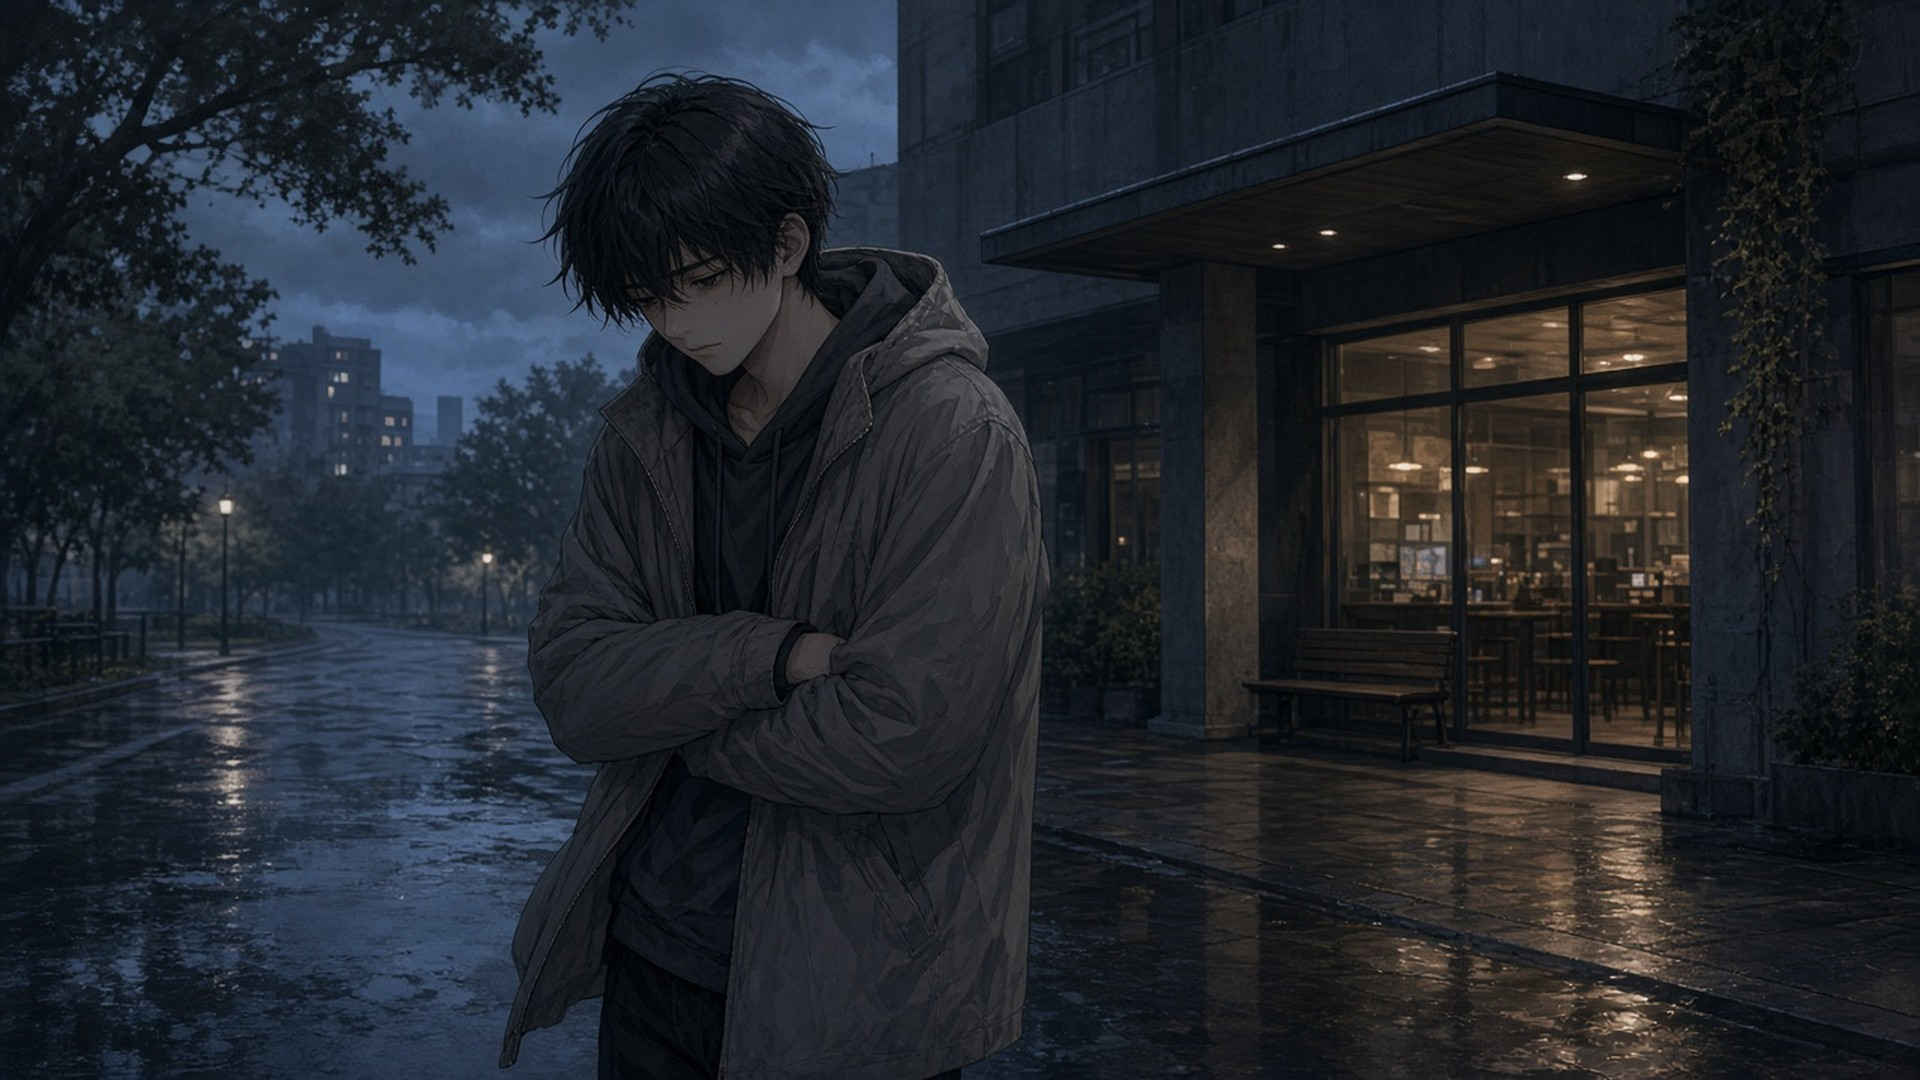
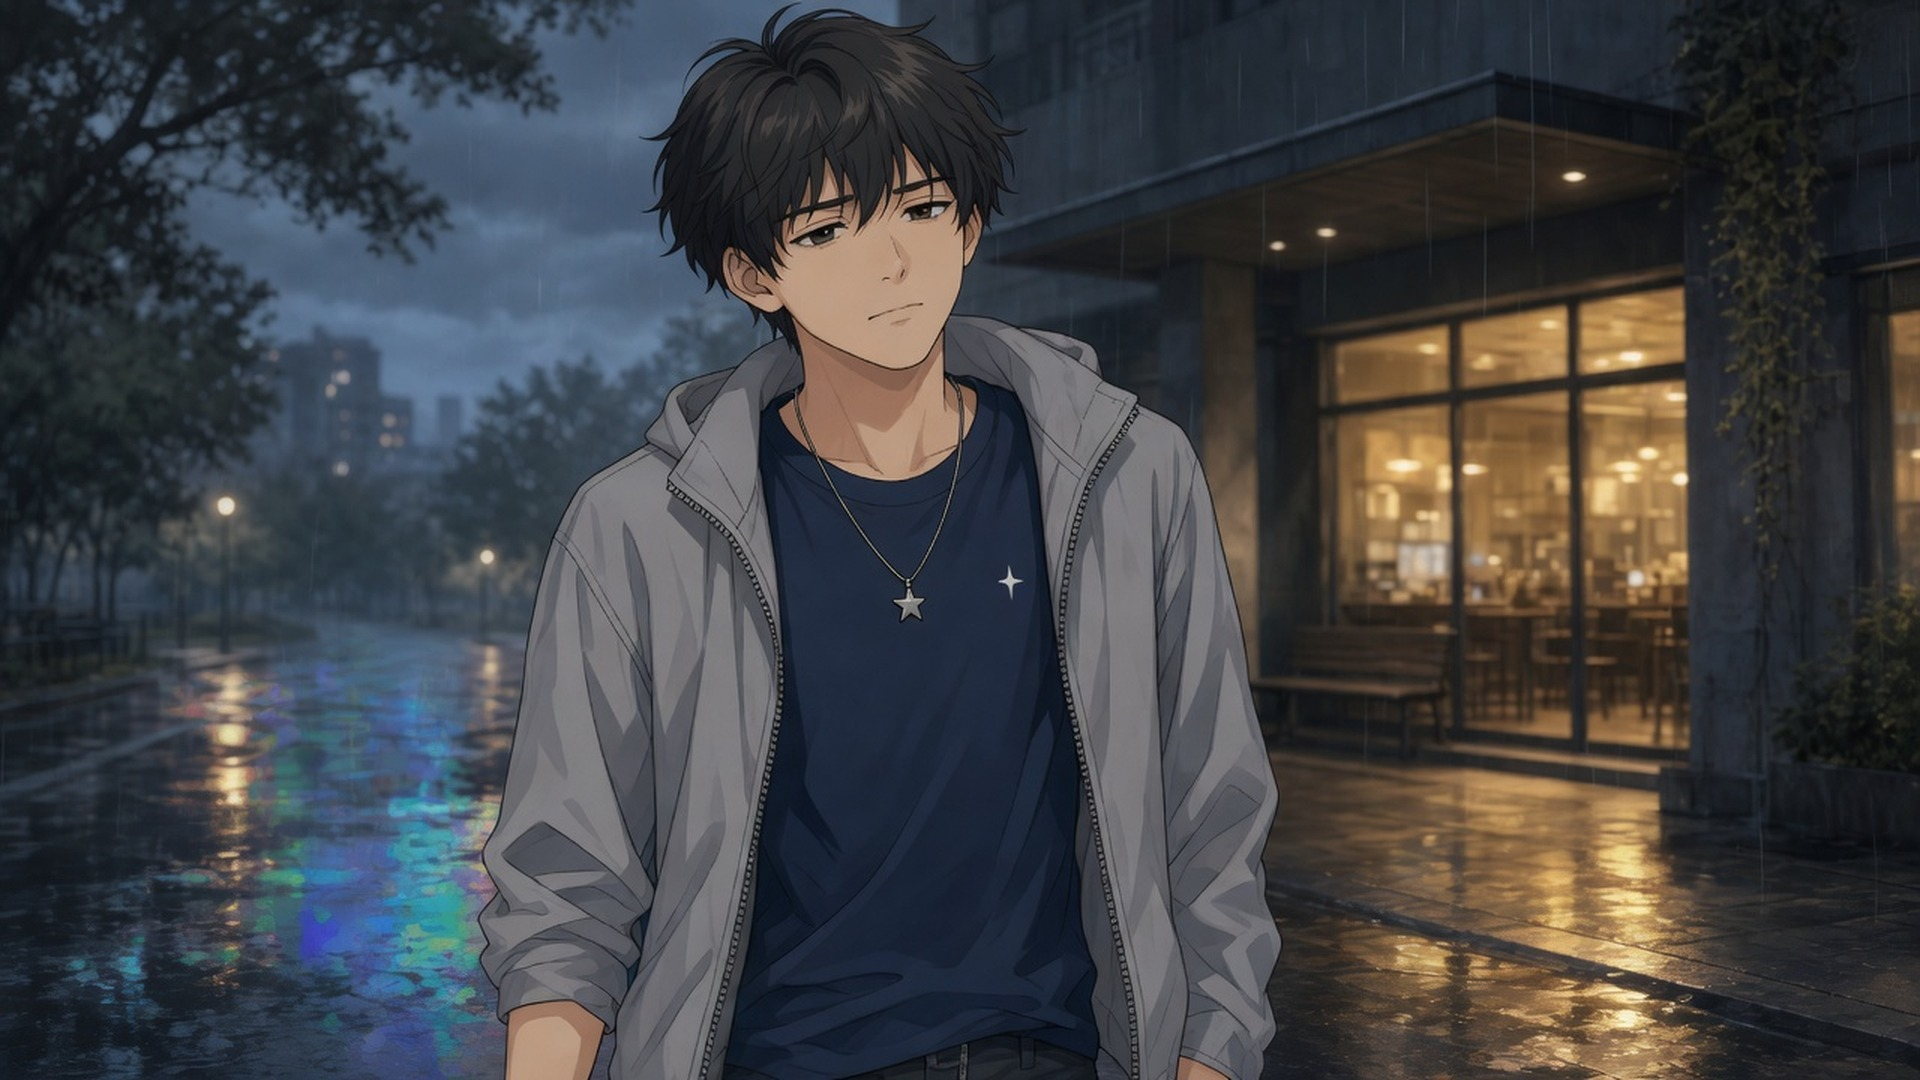
art(xingkong): restyle all full-page CGs to 2D anime
Replace photoreal / LFS-stub CGs in works/xingkong/assets/cg with
cel-shaded 1920x1080 JPEGs matching sprite identity. Helic pass on
ending-qishan-bad-cool hair and ending-suting-bad-leave style.

diff --git a/RELEASE_NOTES.md b/RELEASE_NOTES.md
@@ -1,5 +1,9 @@
 # Release Notes
 
+## v1.30 2026-10-12 00:13:16
+
+- 美術：`works/xingkong/assets/cg` 全頁 CG（場景＋結局）統一二次元賽璐璐畫風，對齊立繪／`cg-temple`／`cg-stone`；補齊先前 LFS 空檔。Helic 覆核後重畫 `ending-qishan-bad-cool`（綺珊頭髮）同 `ending-suting-bad-leave`（寫實風）。
+
 ## v1.29 2026-10-11 23:35:06
 
 - Player：設定「文字速度」可選「即時」——對白一次出齊、無逐字動畫；一下滑鼠就去下一句。
